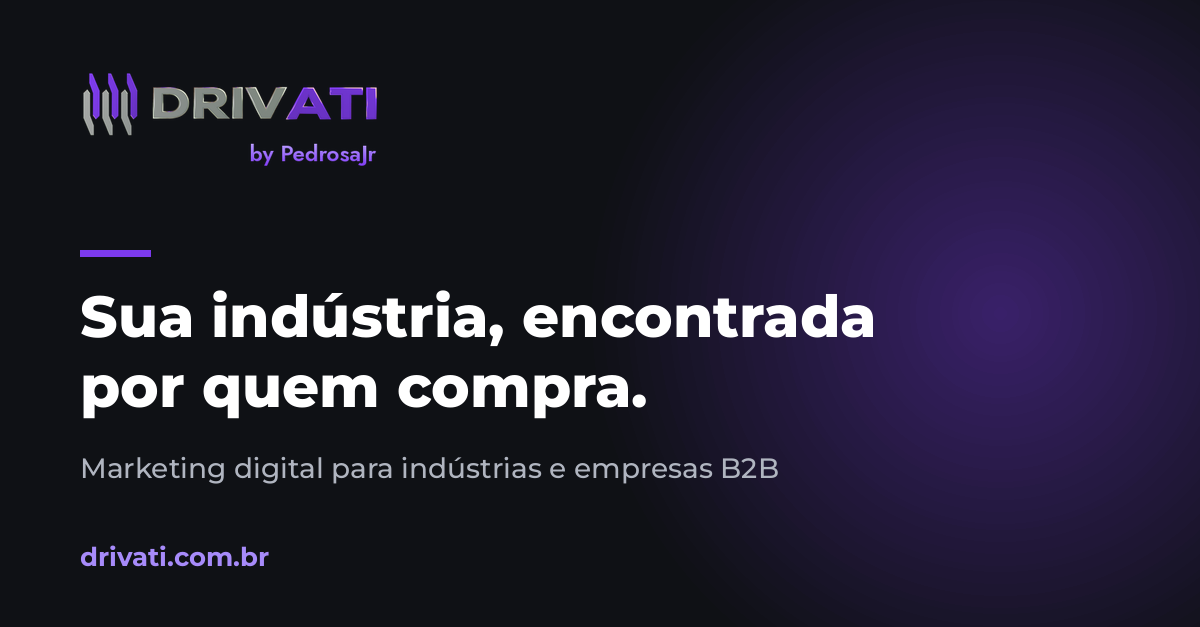
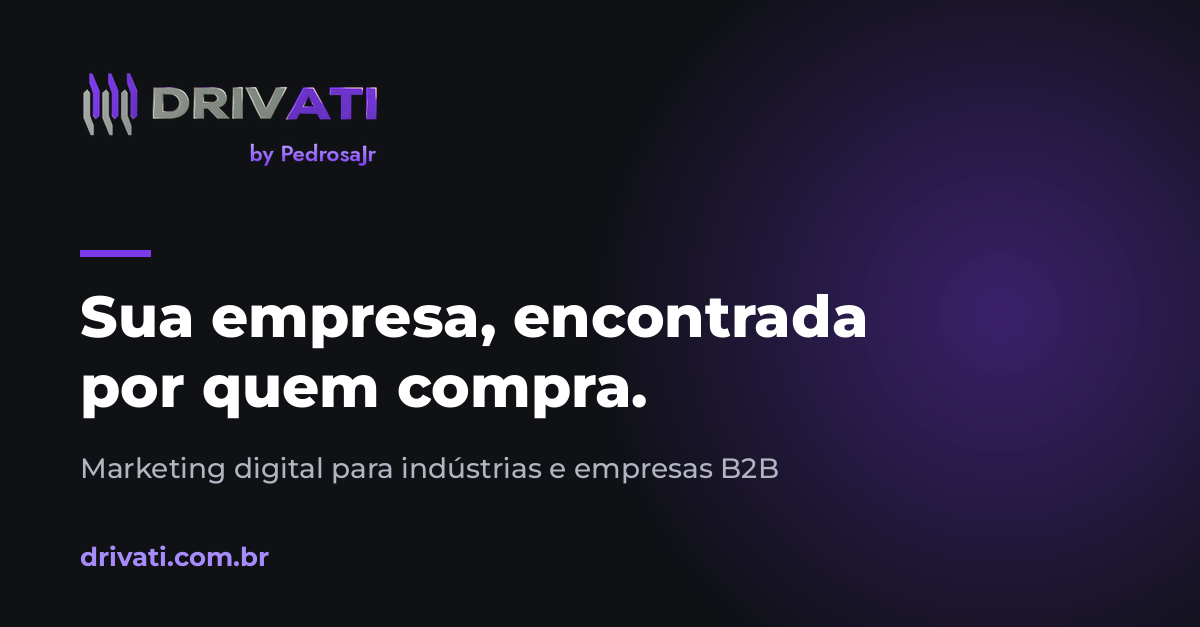
Troca 'Sua indústria' por 'Sua empresa' na home e na imagem de compartilhamento
Claude-Session: https://claude.ai/code/session_01FHYwGqkGpjPTziAUnrxKDQ

Changed region(s): [[0.185, 0.4545, 0.74, 0.5758], [0.1542, 0.4545, 0.185, 0.4848]]

diff --git a/index.html b/index.html
@@ -9,7 +9,7 @@ standalone: true
     <section class="hero">
         <div class="hero-content">
             <span class="overline">Marketing digital para indústrias e empresas B2B</span>
-            <h1 class="main-title">Sua indústria, encontrada por quem compra.</h1>
+            <h1 class="main-title">Sua empresa, encontrada por quem compra.</h1>
             <p class="subtitle">A Drivati cuida do LinkedIn, do Google, do site e dos vídeos e animações de produto de indústrias e empresas B2B. O primeiro passo é um Diagnóstico Digital: em uma semana, um retrato do que funciona, do que falta e um plano de 90 dias.</p>
 
             <div class="cta-group">
